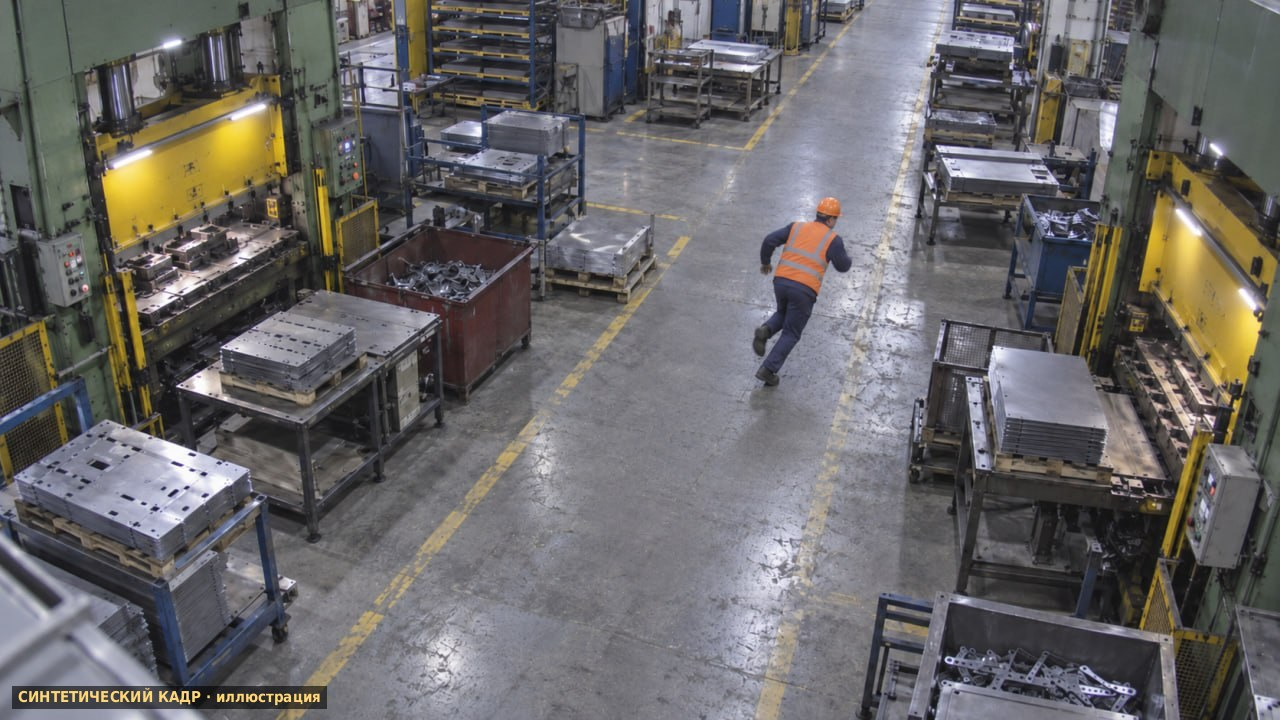
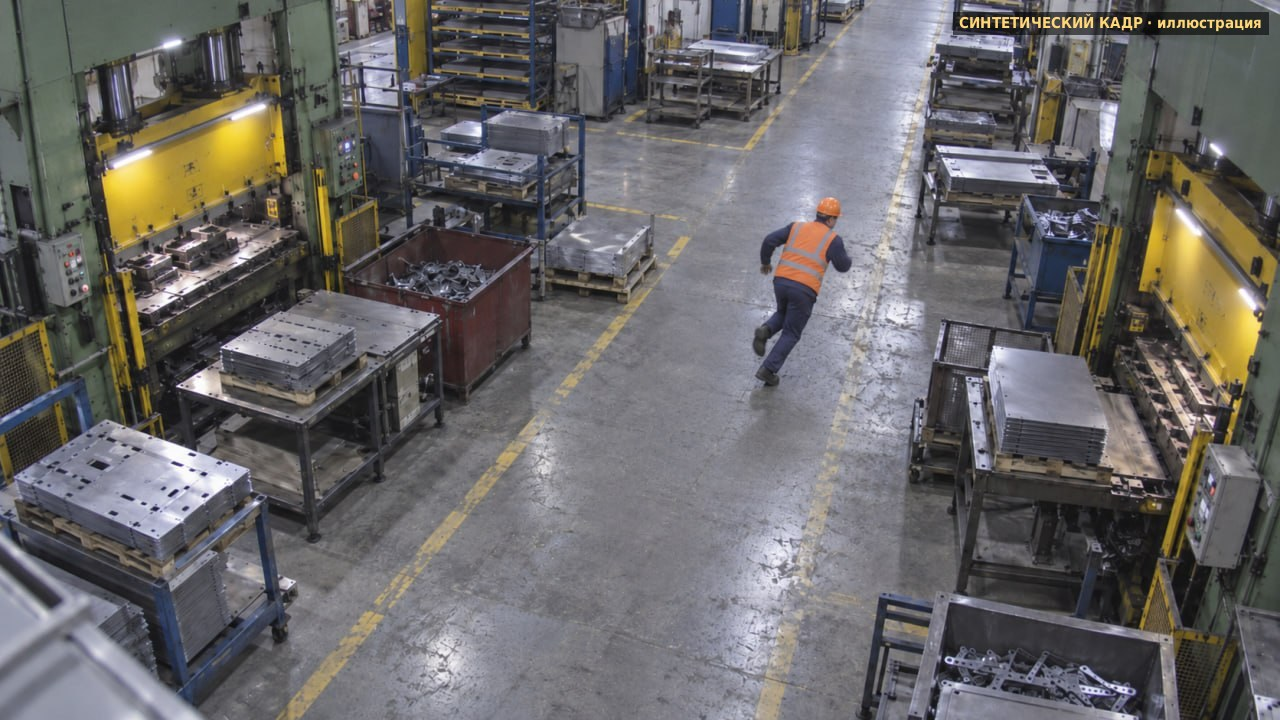
checkpoint-demo: synthetic-frame label moved to top-right (no overlap with UI overlays bottom-left)
Claude-Session: https://claude.ai/code/session_01PqstoxxLrrzGv7wnfwd64y

Changed region(s): [[0.7188, 0.0, 1.0, 0.0611], [0.0, 0.9472, 0.2812, 1.0]]

diff --git a/tools/checkpoint-demo/previews/README.md b/tools/checkpoint-demo/previews/README.md
@@ -2,6 +2,6 @@
 
 Кадры камер для стены мока (`GET /api/cameras/{id}/preview`, файл `cam-<id>.jpg`, 16:9).
 Это синтетические иллюстрации: кадры одного завода, сгенерированные в ChatGPT Images 24.10 (камеры 1–7),
-на каждом подпись «СИНТЕТИЧЕСКИЙ КАДР · иллюстрация».
+на каждом подпись «СИНТЕТИЧЕСКИЙ КАДР · иллюстрация» в правом верхнем углу.
 Не запись с камер и не результат нейросети. Свой кадр: положите `cam-<id>.jpg` и перезапустите мок.
 Нет файла или камера без наблюдения — `preview_url: null`.
